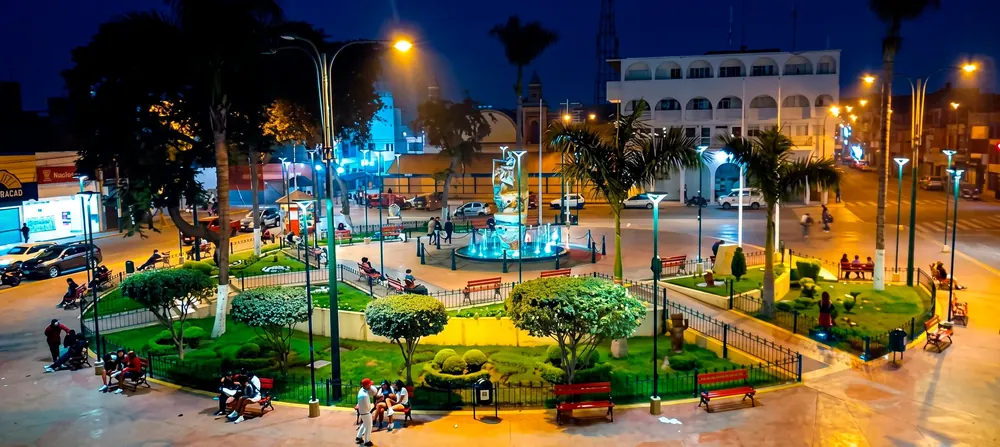
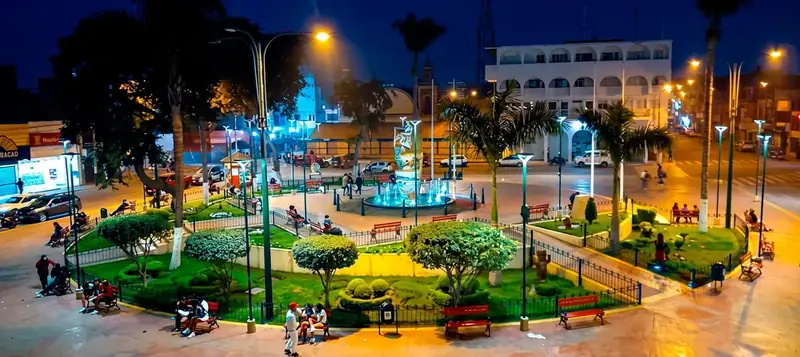
Perf: Compresion ultra LCP 50KB e insercion inteligente de Meta Pixel por interaccion

diff --git a/index.html b/index.html
@@ -178,10 +178,13 @@
     <script src="assets/js/api.obf.js" defer></script>
     <script src="assets/js/index-app.obf.js" defer></script>
 
-    <!-- Meta Pixel Code (Diferido a 3s tras carga para no bloquear hilo principal móvil) -->
+    <!-- Meta Pixel Code (Carga inteligente por interacción de usuario) -->
     <script>
-        window.addEventListener('load', function () {
-            setTimeout(function () {
+        (function() {
+            let pixelLoaded = false;
+            function initMetaPixel() {
+                if (pixelLoaded) return;
+                pixelLoaded = true;
                 !function (f, b, e, v, n, t, s) {
                     if (f.fbq) return; n = f.fbq = function () {
                         n.callMethod ?
@@ -194,9 +197,14 @@
                 }(window, document, 'script', 'https://connect.facebook.net/en_US/fbevents.js');
                 fbq('init', 'TU_ID_DE_PIXEL_AQUI');
                 fbq('track', 'PageView');
-            }, 3000);
-        });
+            }
+            ['touchstart', 'scroll', 'mousemove', 'click'].forEach(function(evt) {
+                window.addEventListener(evt, initMetaPixel, { passive: true, once: true });
+            });
+            setTimeout(initMetaPixel, 6000);
+        })();
     </script>
+
     <noscript><img height="1" width="1" style="display:none"
             src="https://www.facebook.com/tr?id=TU_ID_DE_PIXEL_AQUI&ev=PageView&noscript=1" /></noscript>
     <!-- End Meta Pixel Code -->

diff --git a/scripts/compress_lcp.py b/scripts/compress_lcp.py
@@ -1,0 +1,18 @@
+import os
+from PIL import Image
+
+root_dir = os.path.abspath(os.path.join(os.path.dirname(__file__), '..'))
+filepath = os.path.join(root_dir, 'PR_PLAZA_HUARAL_desktop.webp')
+
+if os.path.exists(filepath):
+    orig_size = os.path.getsize(filepath)
+    with Image.open(filepath) as img:
+        img = img.convert('RGB')
+        max_w = 800
+        if img.width > max_w:
+            new_h = int((img.height * max_w) / img.width)
+            img = img.resize((max_w, new_h), Image.Resampling.LANCZOS)
+        img.save(filepath, 'WEBP', quality=70, method=6)
+    new_size = os.path.getsize(filepath)
+    savings = (1 - (new_size / orig_size)) * 100
+    print(f"Compressed PR_PLAZA_HUARAL_desktop.webp: {orig_size/1024:.1f} KB -> {new_size/1024:.1f} KB (-{savings:.1f}%)")
